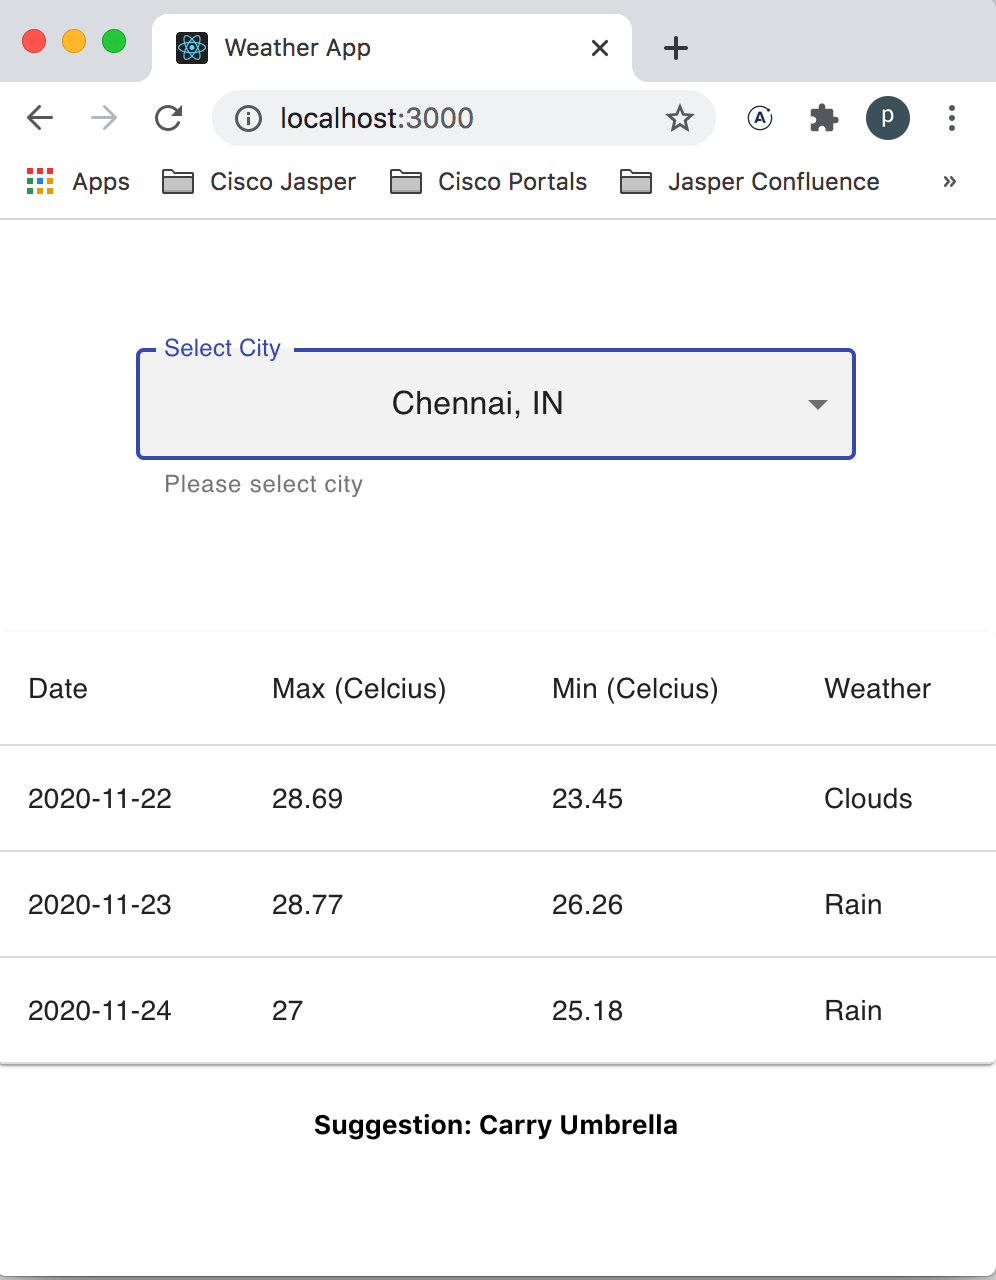
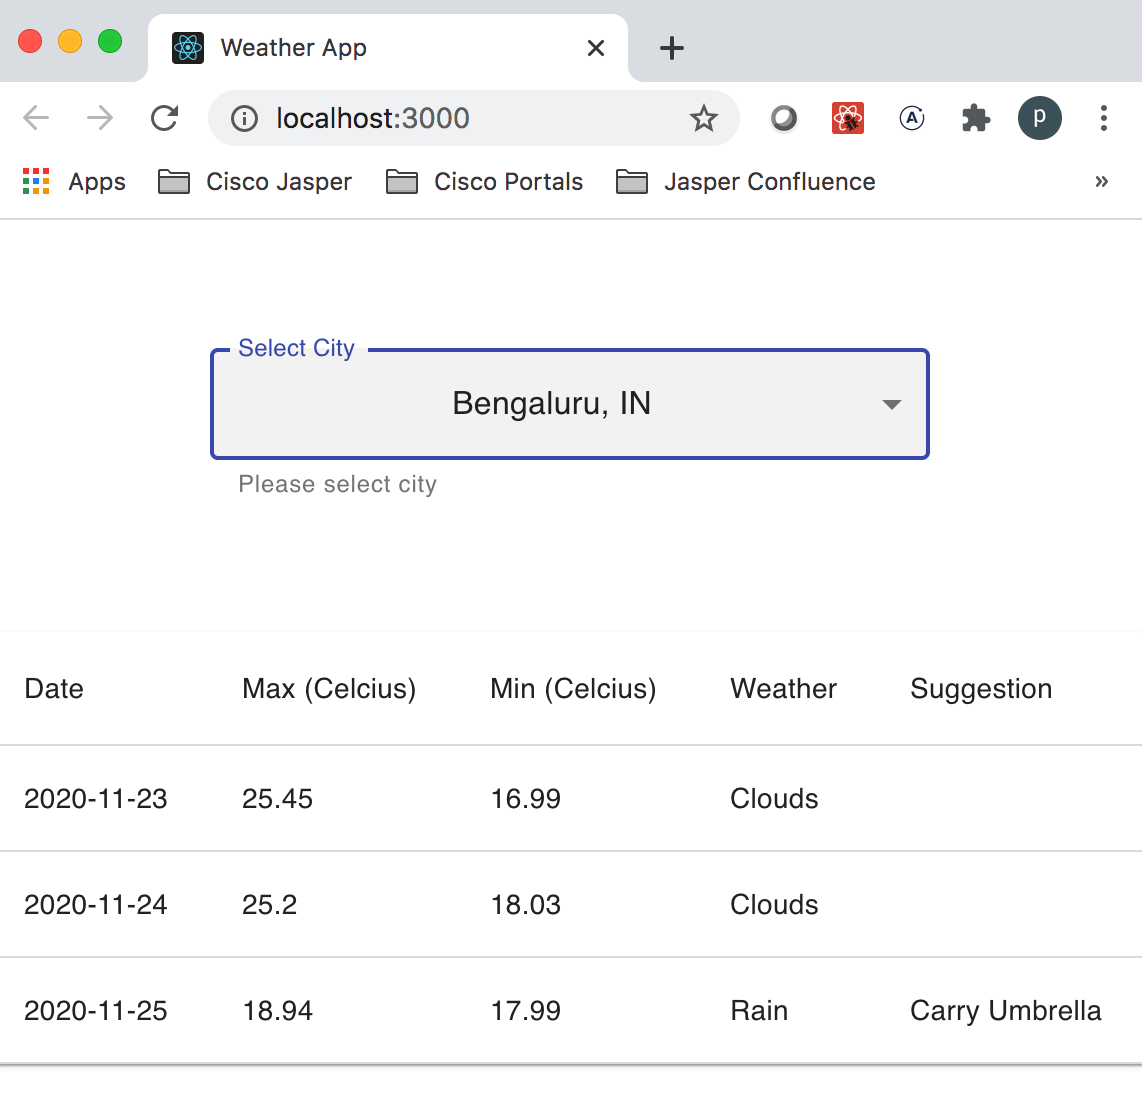
Added suggestion field

diff --git a/weather-frontend/src/App.tsx b/weather-frontend/src/App.tsx
@@ -22,6 +22,7 @@ interface Temperature {
   max: number
   min: number
   description: string
+  suggestion: string
 }
 
 const useStyles = makeStyles((theme: Theme) =>
@@ -42,17 +43,13 @@ function App() {
   const [cities, setCities] = React.useState<City[]>([]);
   const [temperature, setTemperature] = React.useState<Temperature[]>([]);
   const [cityId, setCityId] = React.useState('');
-  const [suggestion, setSuggestion] = React.useState('');
 
   const handleChange = (event: React.ChangeEvent<HTMLInputElement>) => {
     setCityId(event.target.value);
 
     fetch('http://localhost:8080/weather/' + event.target.value)
       .then(response => response.json())
-      .then(data => {
-        setTemperature(data.temperature);
-        setSuggestion(data.suggestion);
-      })
+      .then(data => setTemperature(data))
       .catch((error) => {
         console.error('Error:', error);
       });
@@ -95,6 +92,7 @@ function App() {
               <TableCell>Max&nbsp;(Celcius)</TableCell>
               <TableCell>Min&nbsp;(Celcius)</TableCell>
               <TableCell>Weather</TableCell>
+              <TableCell>Suggestion</TableCell>
             </TableRow>
           </TableHead>
           <TableBody>
@@ -106,12 +104,12 @@ function App() {
                 <TableCell>{row.max}</TableCell>
                 <TableCell>{row.min}</TableCell>
                 <TableCell>{row.description}</TableCell>
+                <TableCell>{row.suggestion}</TableCell>
               </TableRow>
             ))}
           </TableBody>
         </Table>
       </TableContainer>
-      <h5>Suggestion: {suggestion}</h5>
     </div>
   );
 }

diff --git a/weather-service/src/main/java/com/piyushgarg/service/WeatherService.java b/weather-service/src/main/java/com/piyushgarg/service/WeatherService.java
@@ -10,7 +10,6 @@ import com.fasterxml.jackson.databind.JsonNode;
 import com.fasterxml.jackson.databind.ObjectMapper;
 import com.piyushgarg.model.City;
 import com.piyushgarg.model.TemperatureDto;
-import com.piyushgarg.model.WeatherDto;
 import com.piyushgarg.repository.CityRepository;
 
 import org.springframework.beans.factory.annotation.Value;
@@ -43,7 +42,7 @@ public class WeatherService {
         this.cityRepository = cityRepository;
     }
 
-    public WeatherDto getWeatherInfo(Integer cityId) {
+    public List<TemperatureDto> getWeatherInfo(Integer cityId) {
 
         City city = cityRepository.findById(cityId).orElse(null);
         if (city == null) {
@@ -56,10 +55,9 @@ public class WeatherService {
     }
     
 
-    private WeatherDto convert(ResponseEntity<String> response) {
+    private List<TemperatureDto> convert(ResponseEntity<String> response) {
         try {
             JsonNode root = objectMapper.readTree(response.getBody());
-            WeatherDto weatherDto = new WeatherDto();
 
             List<TemperatureDto> temperatureDtos = new ArrayList<>();
 
@@ -77,34 +75,26 @@ public class WeatherService {
                 temperatureDto.setMax(temperature.path("max").asDouble());
                 temperatureDto.setMin(temperature.path("min").asDouble());
                 temperatureDto.setDescription(node.path("weather").get(0).path("main").asText());
+                temperatureDto.setSuggestion(getSuggestion(temperatureDto));
                 
                 temperatureDtos.add(temperatureDto);
             }
 
-            weatherDto.setTemperature(temperatureDtos);
-            getSuggestion(weatherDto);
-            return weatherDto;
+            return temperatureDtos;
         } catch (JsonProcessingException e) {
             throw new RuntimeException("Error parsing JSON", e);
         }
     }
 
-    private void getSuggestion(WeatherDto weatherDto) {
-
-        List<TemperatureDto> temperatureDtos = weatherDto.getTemperature();
+    private String getSuggestion(TemperatureDto temperatureDto) {
 
         String suggestion = "";
 
-        for (TemperatureDto temperatureDto : temperatureDtos) {
-
-            if (temperatureDto.getDescription().equals("Rain")) {
-                suggestion = "Carry Umbrella";
-                break;
-            } else if (temperatureDto.getMax() > 40) {
-                suggestion = "Carry Sun Lotion";
-                break;
-            }
+        if (temperatureDto.getDescription().equals("Rain")) {
+            suggestion = "Carry Umbrella";
+        } else if (temperatureDto.getMax() > 40) {
+            suggestion = "Use Sunscreen Lotion";
         }
-        weatherDto.setSuggestion(suggestion);
+        return suggestion;
     }
 }

diff --git a/weather-service/src/main/java/com/piyushgarg/controller/WeatherController.java b/weather-service/src/main/java/com/piyushgarg/controller/WeatherController.java
@@ -1,6 +1,8 @@
 package com.piyushgarg.controller;
 
-import com.piyushgarg.model.WeatherDto;
+import java.util.List;
+
+import com.piyushgarg.model.TemperatureDto;
 import com.piyushgarg.service.WeatherService;
 
 import org.springframework.web.bind.annotation.GetMapping;
@@ -17,7 +19,7 @@ public class WeatherController {
     }
 
     @GetMapping(path = "/weather/{cityId}")
-    public WeatherDto getWeatherInfo(@PathVariable("cityId") Integer cityId ) {
+    public List<TemperatureDto> getWeatherInfo(@PathVariable("cityId") Integer cityId ) {
 
         return weatherService.getWeatherInfo(cityId);
     }

diff --git a/weather-service/src/main/java/com/piyushgarg/model/TemperatureDto.java b/weather-service/src/main/java/com/piyushgarg/model/TemperatureDto.java
@@ -9,5 +9,6 @@ public class TemperatureDto {
     private Double max;
     private Double min;
     private String description;
+    private String suggestion;
     
 }
